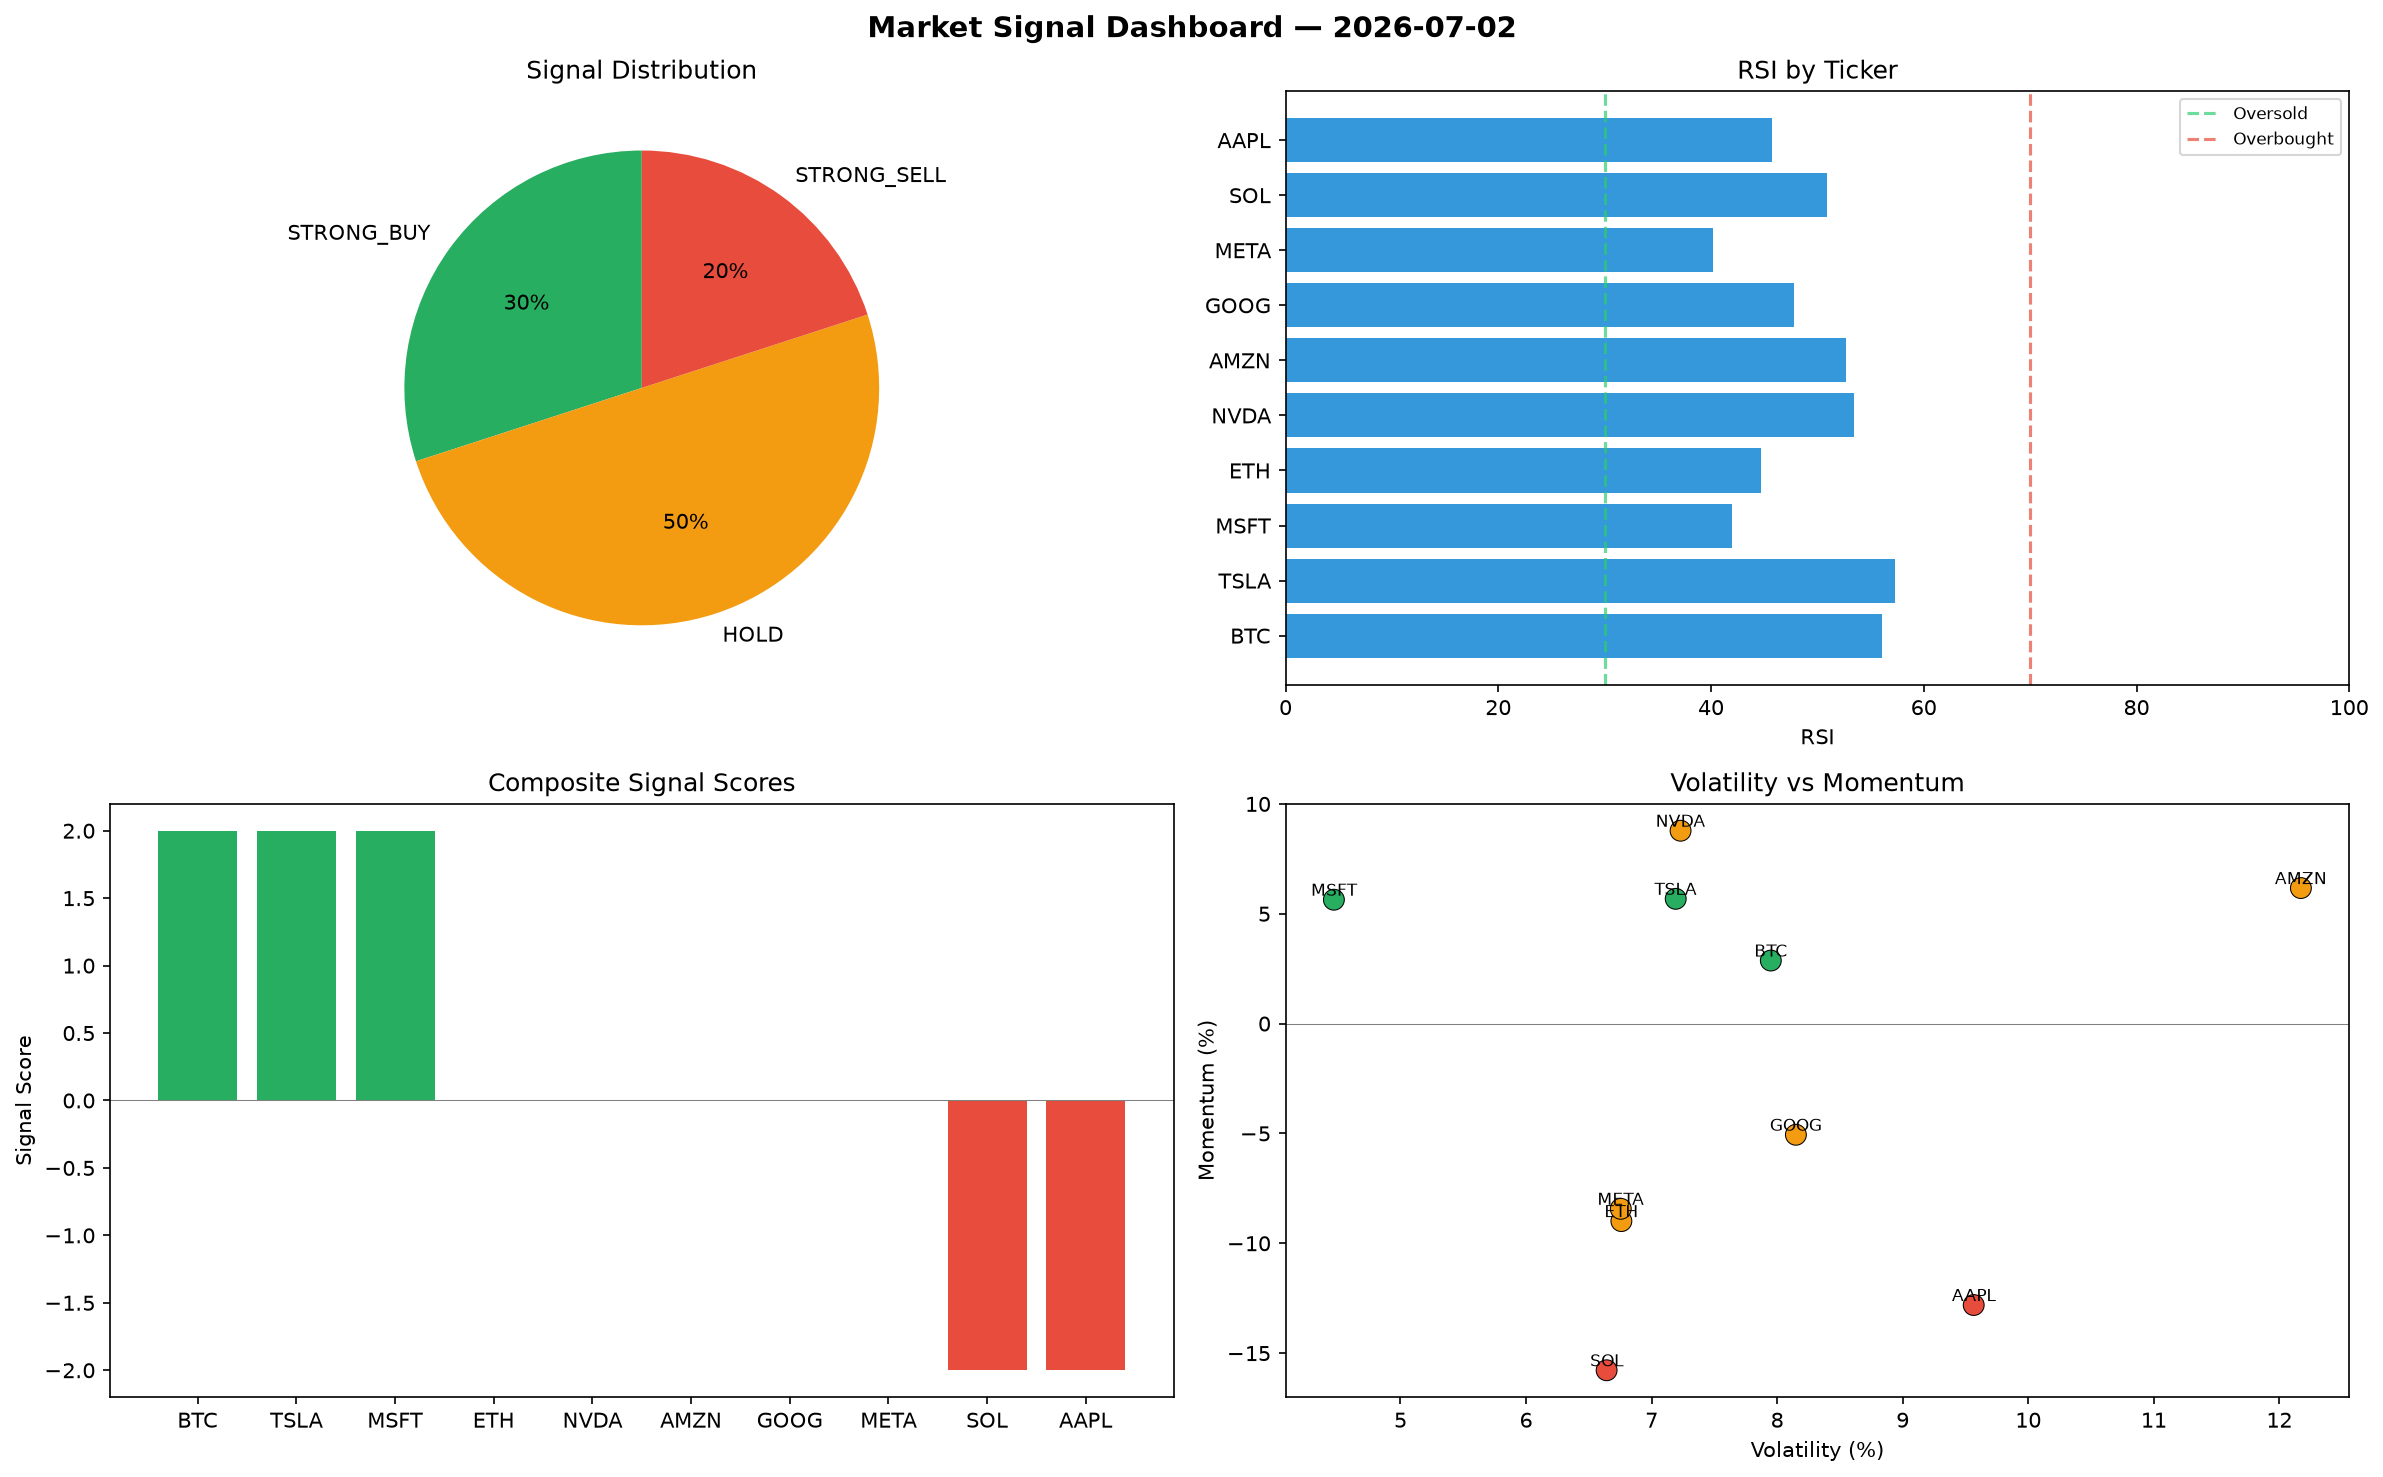
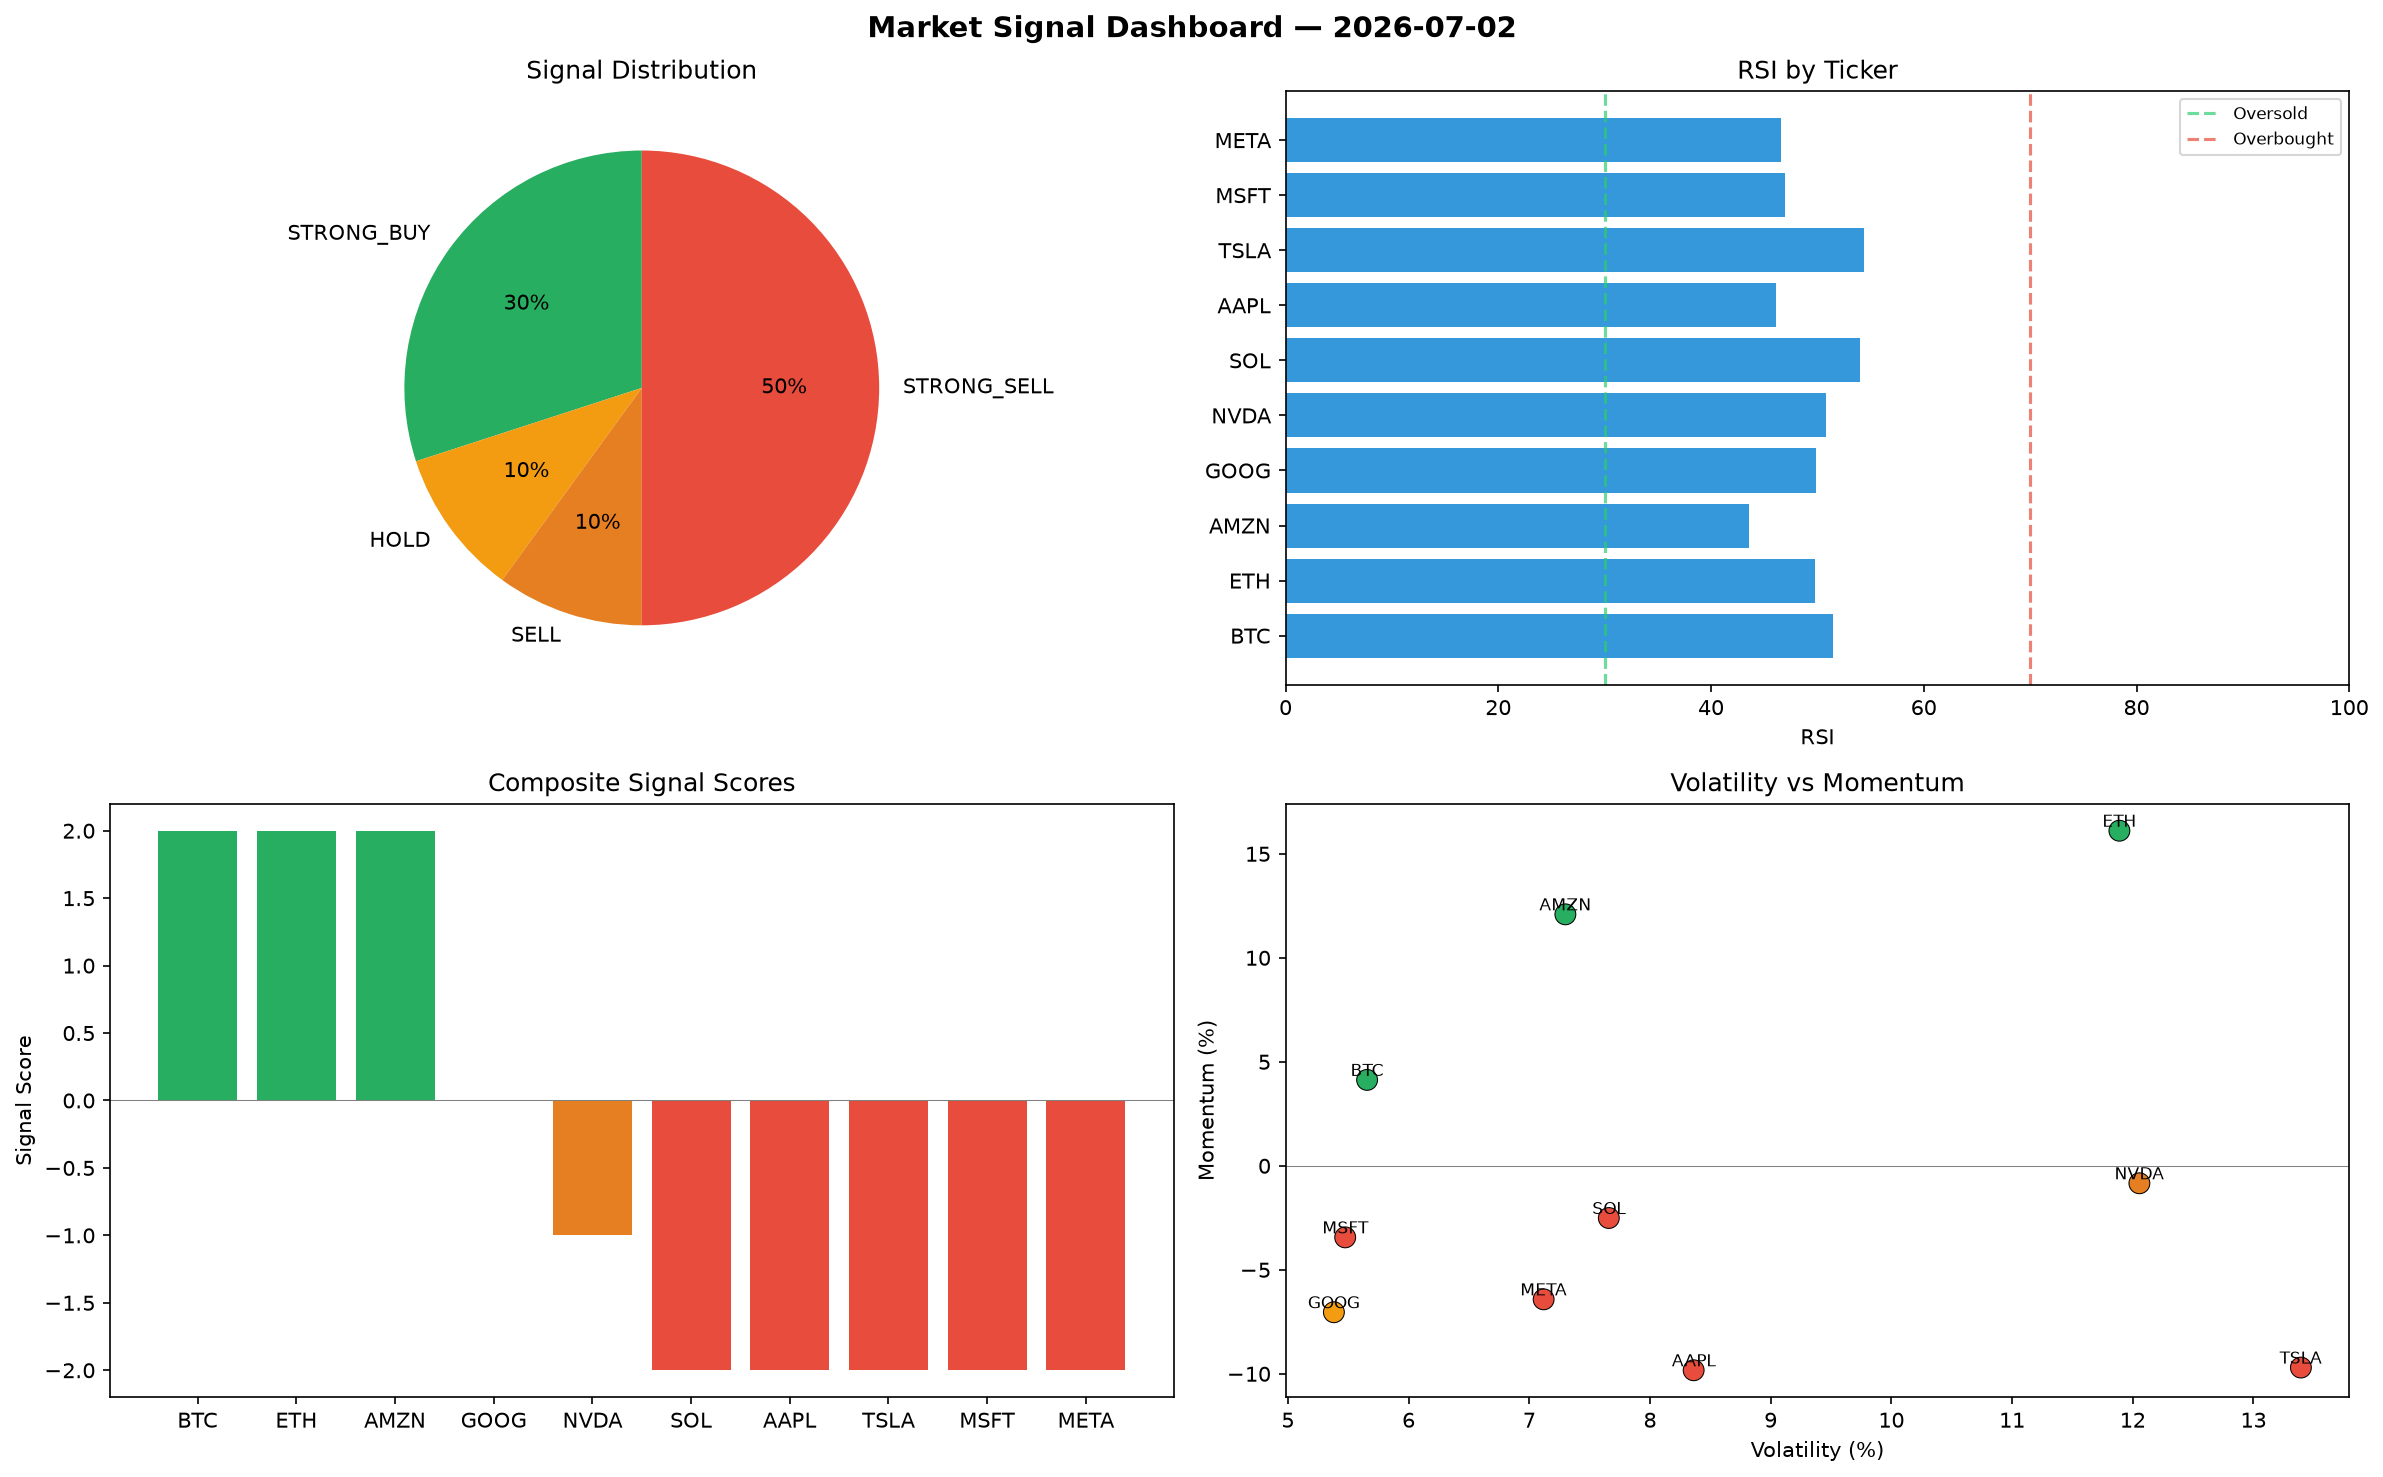
automated-bots: market signals 2026-07-02T11:04

diff --git a/logs/2026-07-02.md b/logs/2026-07-02.md
@@ -1,6 +1,6 @@
 # Market Signal Report — 2026-07-02
 
-**Run ID:** `7dce97f0eb` | **Buy:** 3 | **Sell:** 2 | **Hold:** 5
+**Run ID:** `8427393336` | **Buy:** 3 | **Sell:** 6 | **Hold:** 1
 
 ![Dashboard](2026-07-02_dashboard.png)
 
@@ -8,28 +8,28 @@
 
 | Ticker | Price | Signal | Score | RSI | Momentum | Confidence |
 |--------|-------|--------|-------|-----|----------|------------|
-| BTC | $2206.58 | **STRONG_BUY** | 2 | 56.1 | 0.0287 | 0.5 |
-| TSLA | $65.85 | **STRONG_BUY** | 2 | 57.33 | 0.0568 | 0.5 |
-| MSFT | $3661.8 | **STRONG_BUY** | 2 | 41.96 | 0.0564 | 0.5 |
-| ETH | $2220.97 | **HOLD** | 0 | 44.68 | -0.0899 | 0.0 |
-| NVDA | $328.45 | **HOLD** | 0 | 53.45 | 0.0878 | 0.0 |
-| AMZN | $559.79 | **HOLD** | 0 | 52.71 | 0.0617 | 0.0 |
-| GOOG | $4482.66 | **HOLD** | 0 | 47.8 | -0.0506 | 0.0 |
-| META | $1495.81 | **HOLD** | 0 | 40.16 | -0.0843 | 0.0 |
-| SOL | $1851.1 | **STRONG_SELL** | -2 | 50.88 | -0.1578 | 0.5 |
-| AAPL | $302.74 | **STRONG_SELL** | -2 | 45.74 | -0.1281 | 0.5 |
+| BTC | $3099.12 | **STRONG_BUY** | 2 | 51.44 | 0.0413 | 0.5 |
+| ETH | $2011.77 | **STRONG_BUY** | 2 | 49.74 | 0.1611 | 0.5 |
+| AMZN | $1586.26 | **STRONG_BUY** | 2 | 43.59 | 0.1209 | 0.5 |
+| GOOG | $250.52 | **HOLD** | 0 | 49.83 | -0.0704 | 0.0 |
+| NVDA | $4797.15 | **SELL** | -1 | 50.81 | -0.0084 | 0.25 |
+| SOL | $1051.36 | **STRONG_SELL** | -2 | 53.98 | -0.0251 | 0.5 |
+| AAPL | $50.29 | **STRONG_SELL** | -2 | 46.11 | -0.0983 | 0.5 |
+| TSLA | $934.42 | **STRONG_SELL** | -2 | 54.36 | -0.097 | 0.5 |
+| MSFT | $4699.19 | **STRONG_SELL** | -2 | 46.97 | -0.0344 | 0.5 |
+| META | $3147.39 | **STRONG_SELL** | -2 | 46.56 | -0.0642 | 0.5 |
 
 ## Delta vs Yesterday
 
 | Ticker | Today | Yesterday | Price Change | Signal Changed |
 |--------|-------|-----------|-------------|----------------|
-| BTC | STRONG_BUY | SELL | 📈 3339.72% | ⚠ YES |
-| TSLA | STRONG_BUY | BUY | 📉 -98.45% | ⚠ YES |
-| MSFT | STRONG_BUY | SELL | 📈 71.38% | ⚠ YES |
-| ETH | HOLD | STRONG_SELL | 📈 33.98% | ⚠ YES |
-| NVDA | HOLD | HOLD | 📉 -83.35% | — |
-| AMZN | HOLD | STRONG_BUY | 📉 -87.68% | ⚠ YES |
-| GOOG | HOLD | BUY | 📈 314.4% | ⚠ YES |
-| META | HOLD | HOLD | 📉 -31.61% | — |
-| SOL | STRONG_SELL | STRONG_BUY | 📉 -14.07% | ⚠ YES |
-| AAPL | STRONG_SELL | SELL | 📉 -93.15% | ⚠ YES |
+| BTC | STRONG_BUY | SELL | 📈 4731.05% | ⚠ YES |
+| ETH | STRONG_BUY | STRONG_SELL | 📈 21.36% | ⚠ YES |
+| AMZN | STRONG_BUY | STRONG_BUY | 📉 -65.08% | — |
+| GOOG | HOLD | BUY | 📉 -76.84% | ⚠ YES |
+| NVDA | SELL | HOLD | 📈 143.21% | ⚠ YES |
+| SOL | STRONG_SELL | STRONG_BUY | 📉 -51.19% | ⚠ YES |
+| AAPL | STRONG_SELL | SELL | 📉 -98.86% | ⚠ YES |
+| TSLA | STRONG_SELL | BUY | 📉 -78.02% | ⚠ YES |
+| MSFT | STRONG_SELL | SELL | 📈 119.93% | ⚠ YES |
+| META | STRONG_SELL | HOLD | 📈 43.9% | ⚠ YES |
